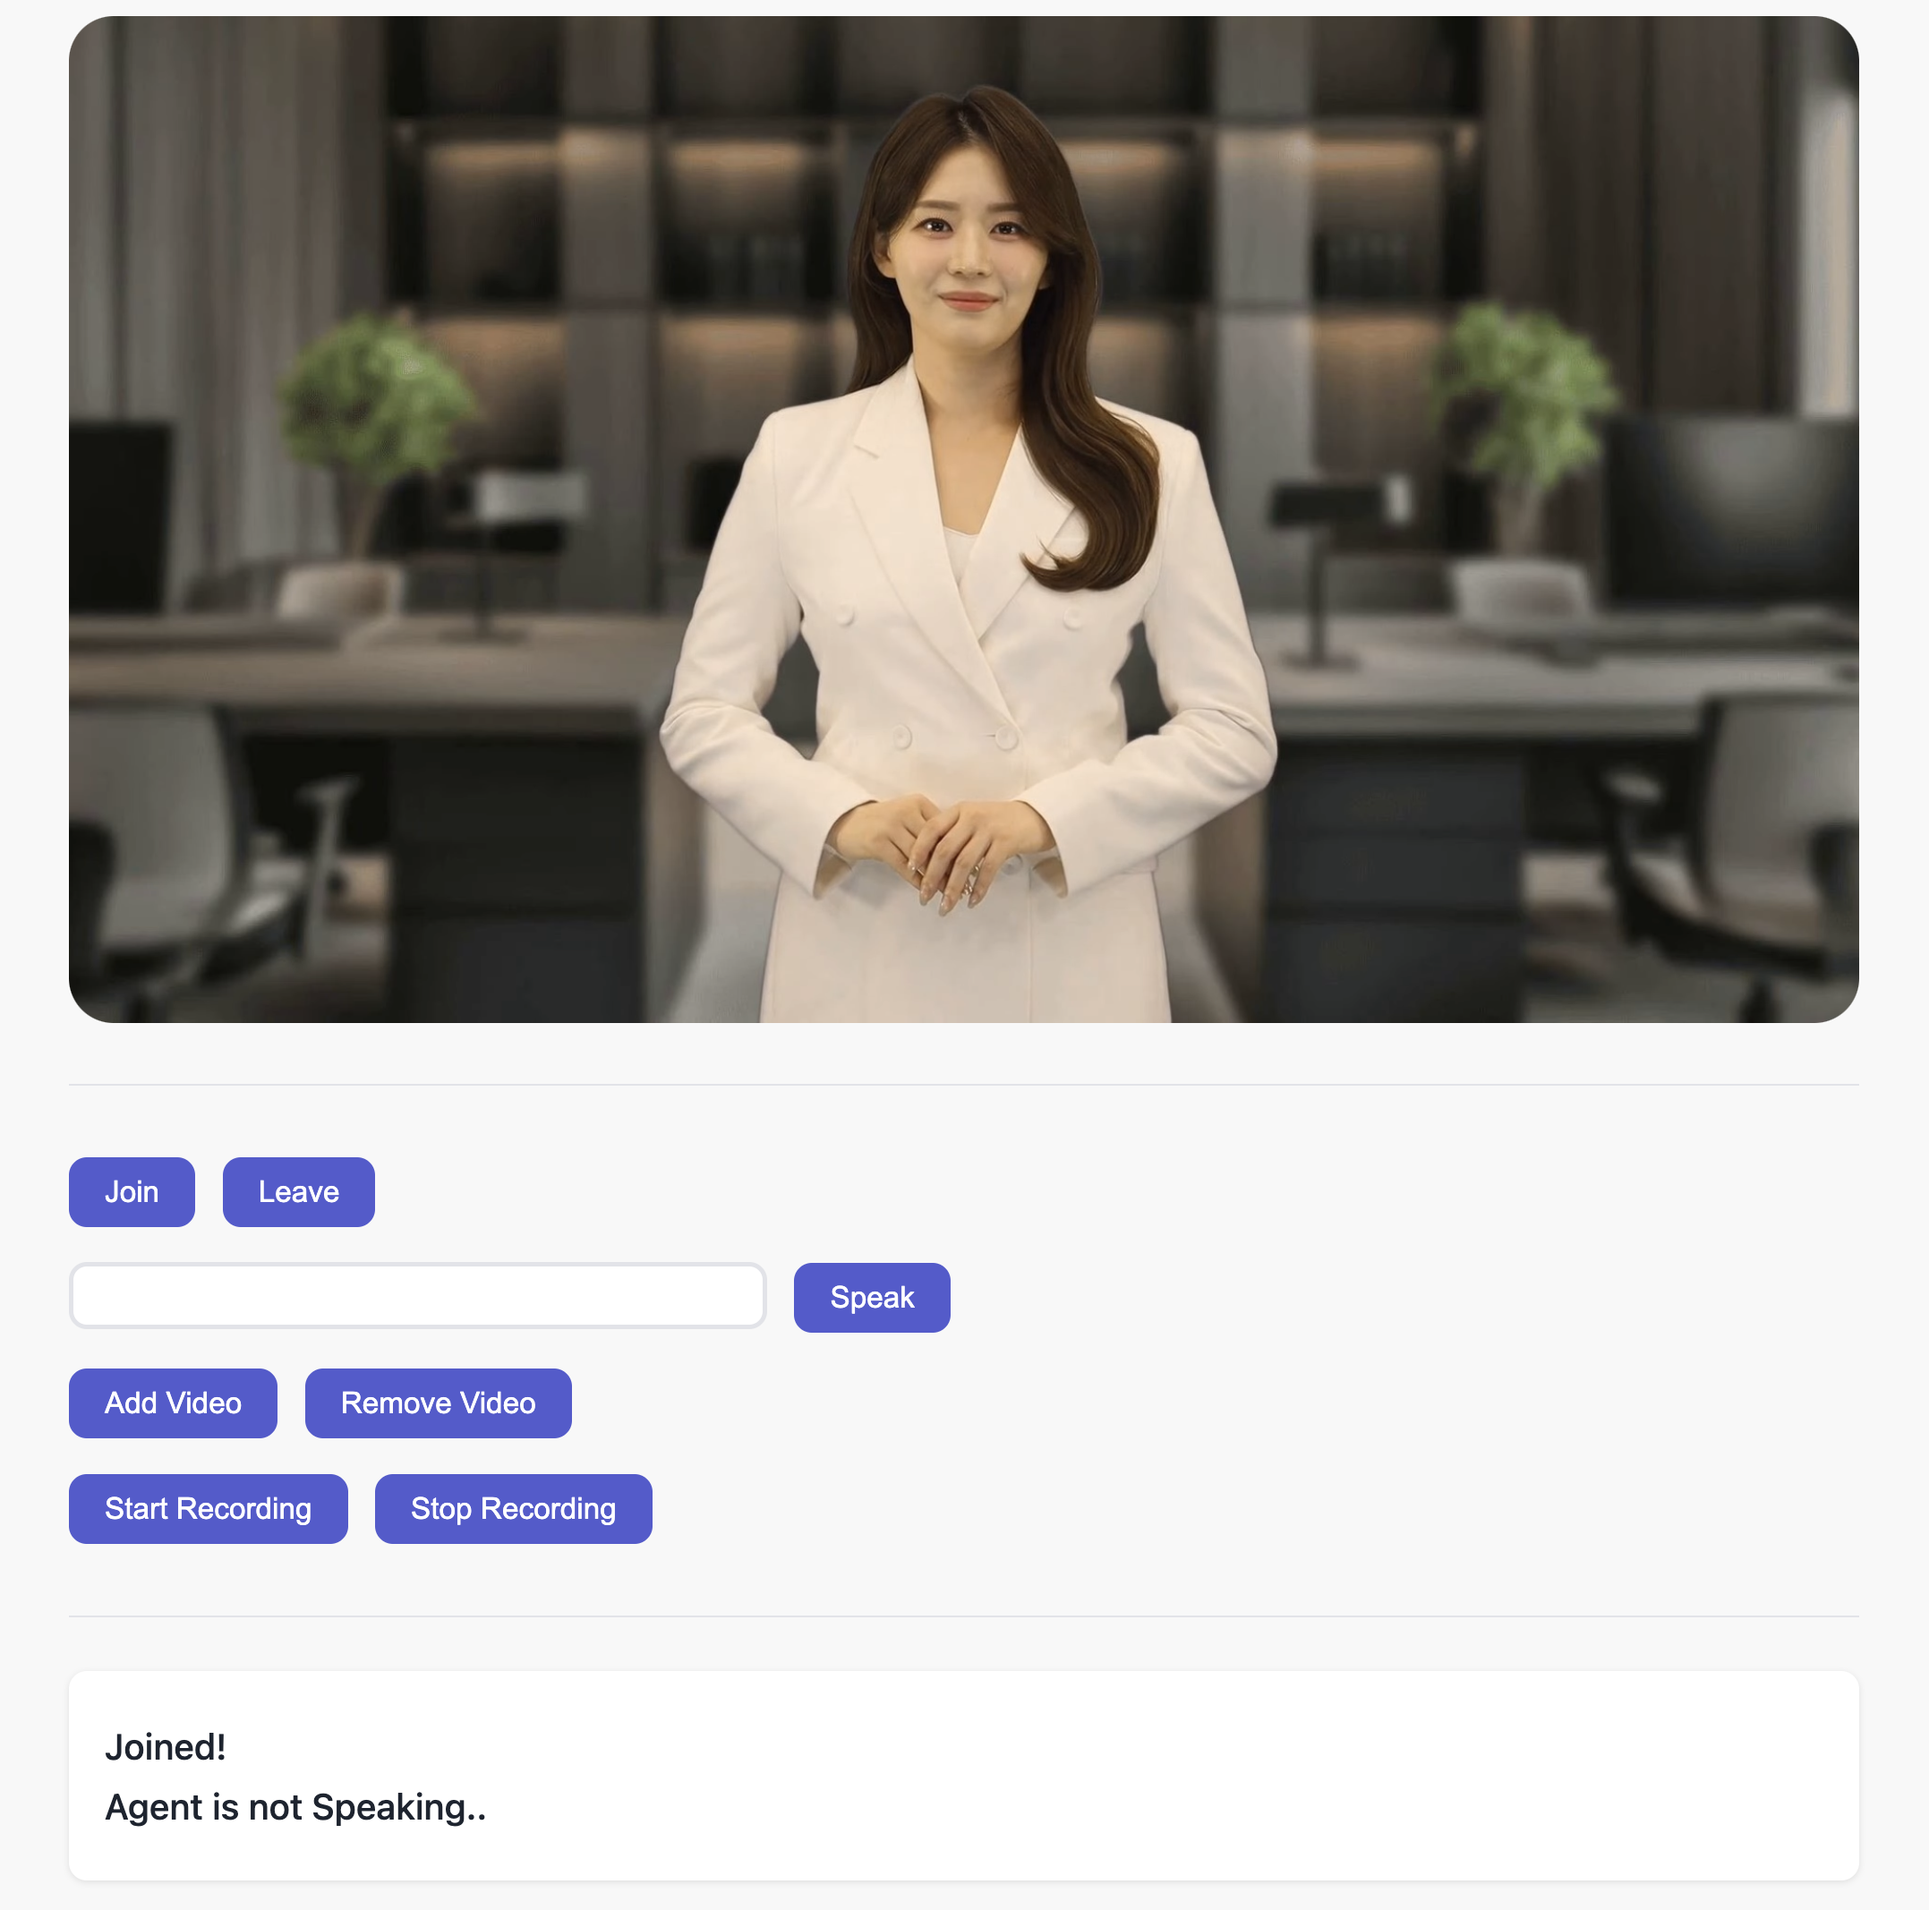
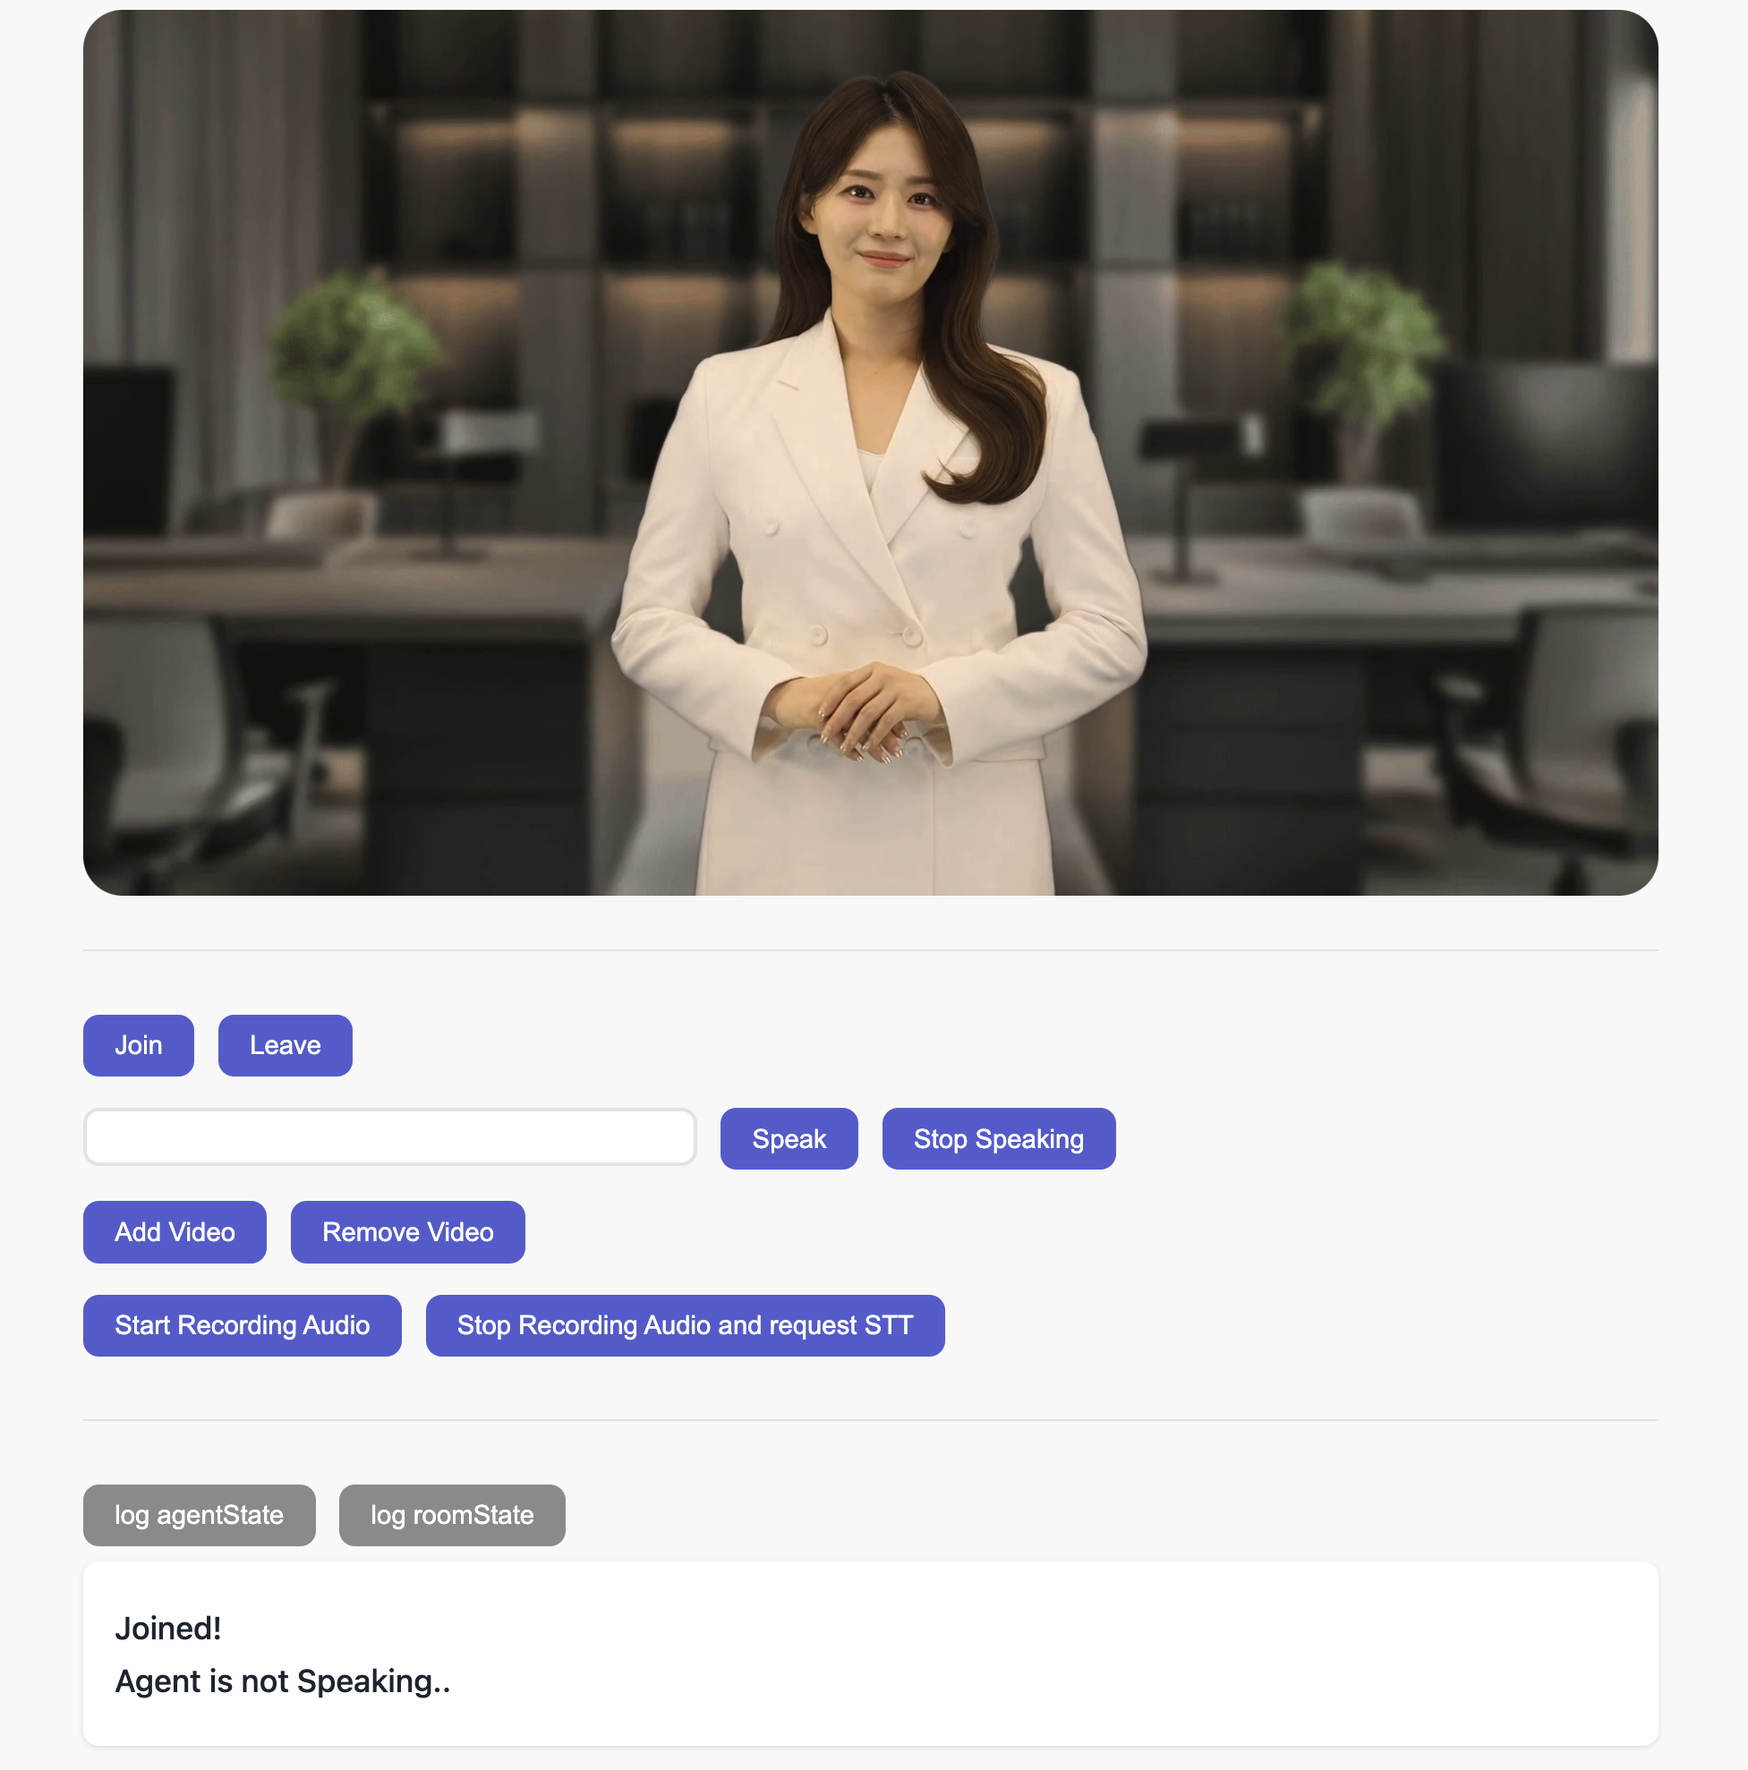
add log agentState, roomState, change README

Changed region(s): [[0.0312, 0.0, 0.9683, 0.6476], [0.0312, 0.6168, 0.6559, 0.956]]

diff --git a/index.html b/index.html
@@ -74,9 +74,13 @@
       }
 
       #sttText {
-        display: block;
         margin: 0.5rem 0;
         color: #4b5563;
+      }
+
+      #logAgentStateBtn,
+      #logRoomStateBtn {
+        background-color: #959595;
       }
     </style>
   </head>
@@ -94,17 +98,22 @@
     <button id="addVideoBtn">Add Video</button>
     <button id="removeVideoBtn">Remove Video</button>
     <br />
-    <button id="startRecordBtn">Start Recording</button>
-    <button id="stopRecordBtn">Stop Recording</button>
+    <button id="startRecordBtn">Start Recording Audio</button>
+    <button id="stopRecordBtn">Stop Recording Audio and request STT</button>
+
     <div id="sttResult" style="display: none">
       <b>STT Result: </b>
       <span id="sttText"></span>
     </div>
     <hr />
+
+    <button id="logAgentStateBtn">log agentState</button>
+    <button id="logRoomStateBtn">log roomState</button>
     <div class="status">
       <div id="joinStatus">Not Joined..</div>
       <div id="speakingStatus">Agent is not Speaking..</div>
     </div>
+    <br />
 
     <script type="module" src="main.js"></script>
   </body>

diff --git a/main.js b/main.js
@@ -119,11 +119,18 @@ document.getElementById("stopRecordBtn").addEventListener("click", async () => {
   try {
     const blob = await room.stopRecordingAudio();
     const sttResult = await room.stt(blob, "ko");
-    if (sttResult) {
-      document.getElementById("sttText").textContent = sttResult;
-      document.getElementById("sttResult").style.display = "block";
-    }
+
+    document.getElementById("sttText").textContent = sttResult;
+    document.getElementById("sttResult").style.display = "block";
   } catch (error) {
     console.error(error);
   }
+});
+
+document.getElementById("logAgentStateBtn").addEventListener("click", () => {
+  logClient(room.agentState());
+});
+
+document.getElementById("logRoomStateBtn").addEventListener("click", () => {
+  logClient(room.roomState());
 });

diff --git a/README.md b/README.md
@@ -10,11 +10,10 @@ This demo implements the following features using [Room](https://docs.ejelai.com
 
 - Join/Leave Ejel Streaming stream
 - Request agent to speak text
+- Stop agent speaking
 - Add/Remove agent video
 - Voice recording
 - STT (Speech-to-Text)
-
-For more details on each feature, please refer to the [Documentation](https://docs.ejelai.com).
 
 ## Getting Started
 
